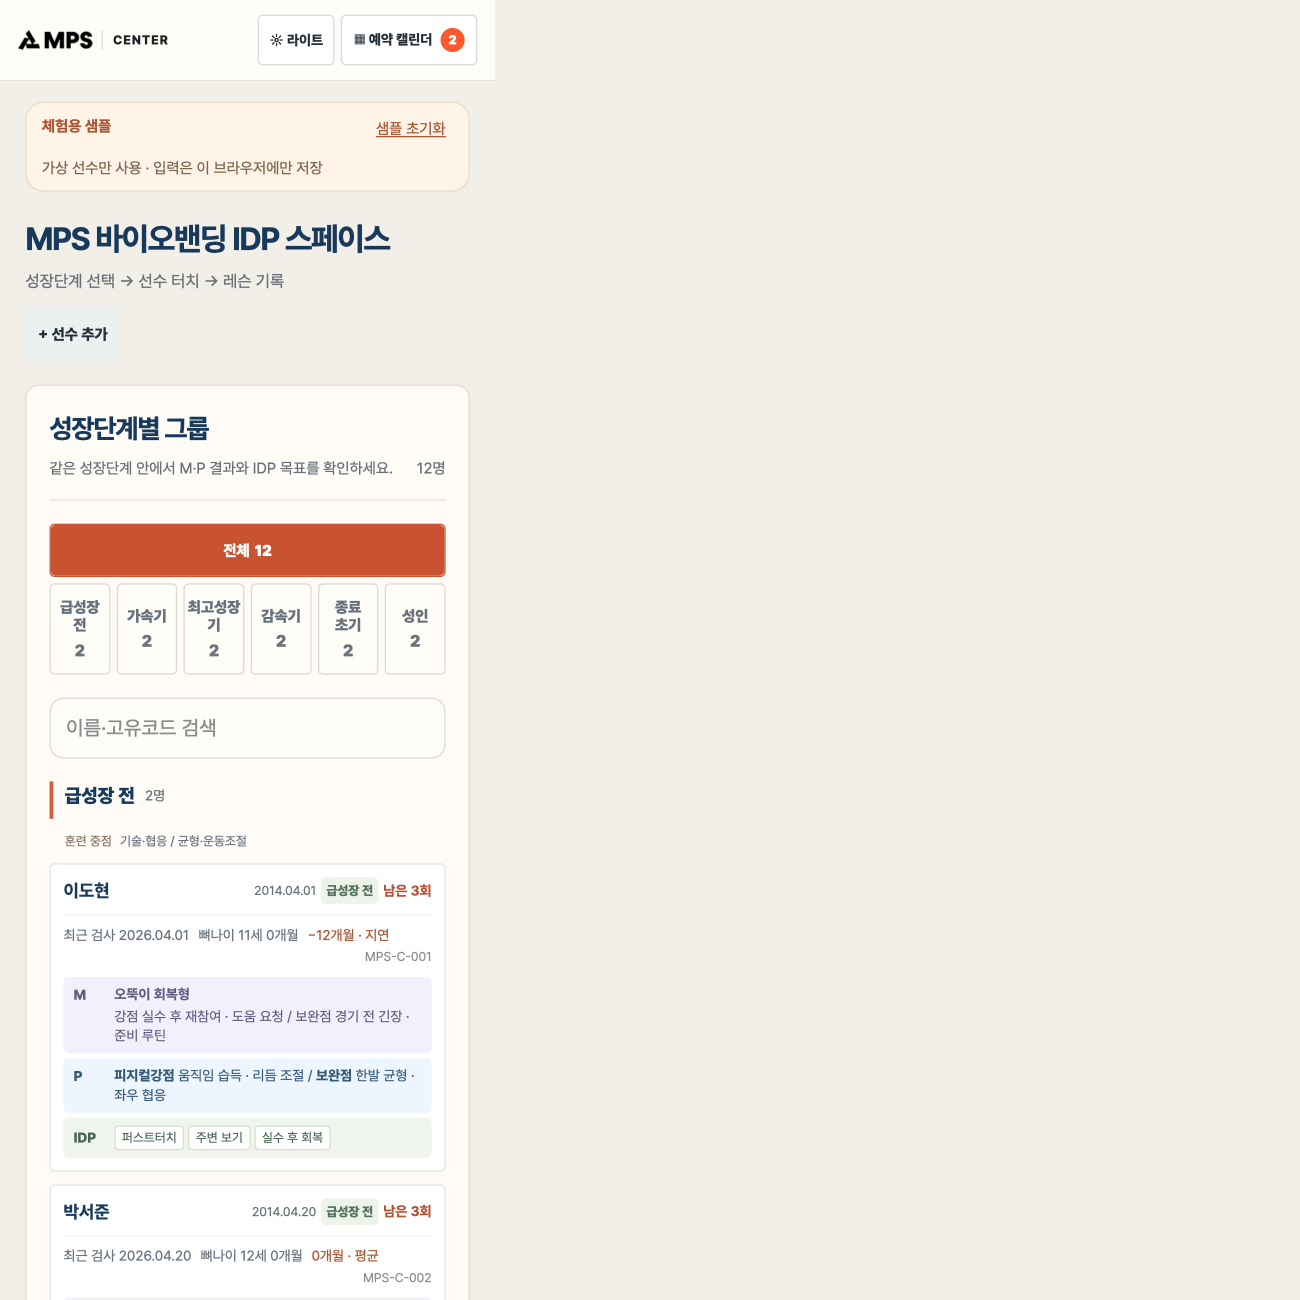
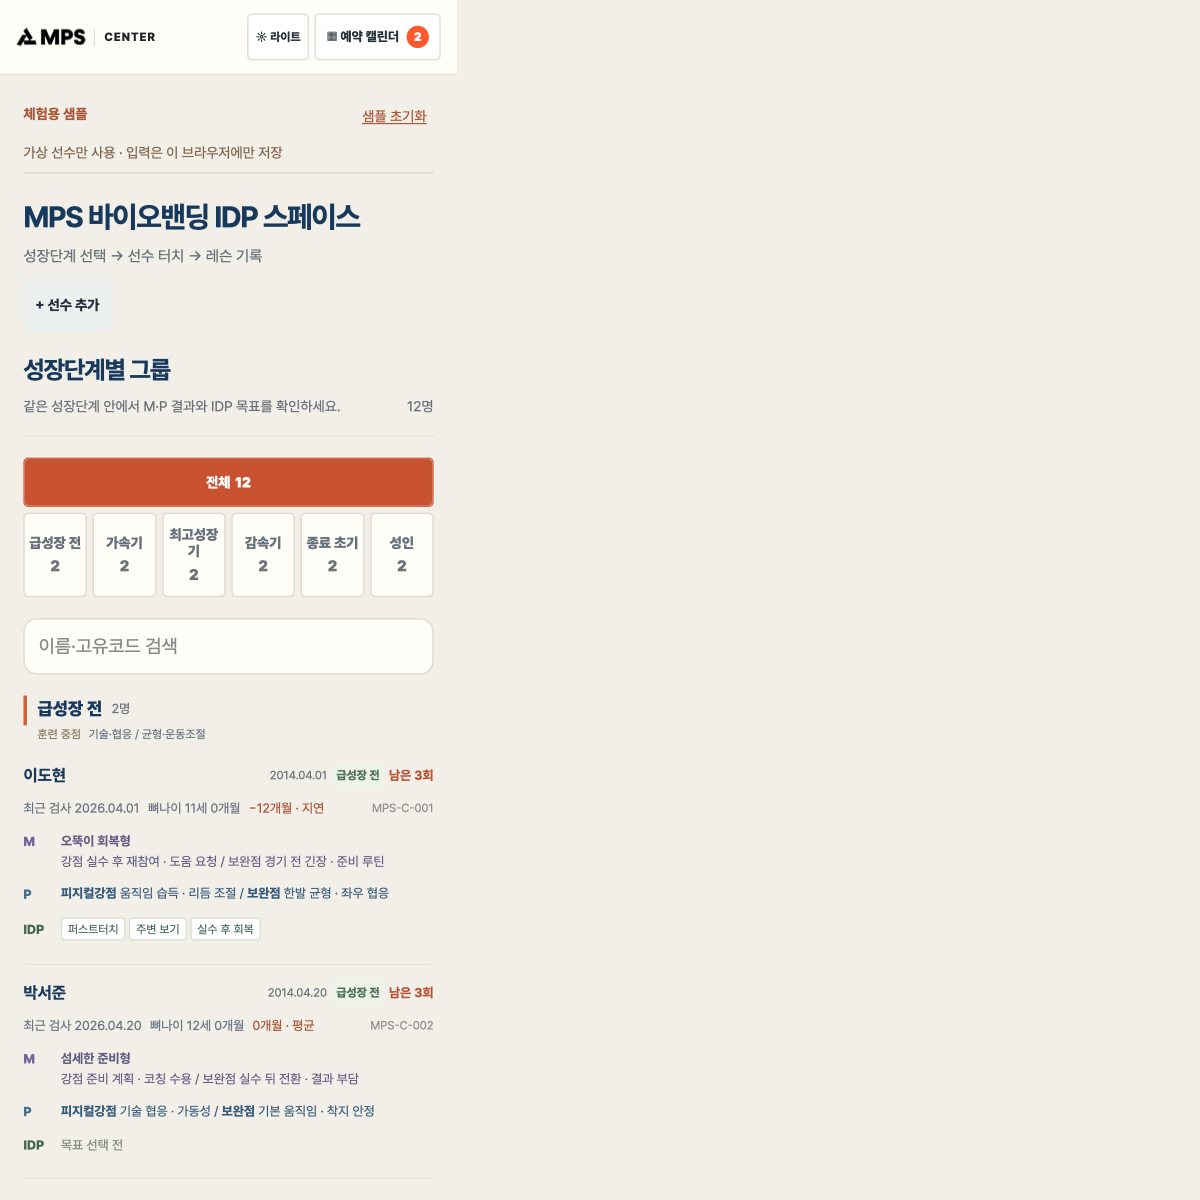
Simplify roster and preserve player booking flow with solar theme

diff --git a/app.js b/app.js
@@ -127,7 +127,7 @@ function renderDetail(){const p=players.find(x=>x.id===selected);const detail=$(
   <div class="growth-panel"><div class="growth-title"><span>S · 성장단계</span><strong>${esc(getStage(p))}</strong></div>${report?`<div class="growth-facts"><div><small>검사일</small><b>${esc(displayDate(report.examDate))}</b></div><div><small>생활연령</small><b>${esc(yearsMonths(monthsAt(p.dob,report.examDate)))}</b></div><div><small>뼈나이</small><b>${esc(yearsMonths(report.boneAgeMonths))}</b></div><div><small>차이</small><b>${esc(diffLabel)} · ${esc(report.maturity)}</b></div></div><details class="growth-history"><summary>이전 검사와 비교</summary>${previous?`<div class="stage-compare"><div><small>이전 검사 · ${esc(displayDate(previous.examDate))}</small><b>${esc(previous.stage)}</b></div><span aria-hidden="true">→</span><div><small>최근 검사 · ${esc(displayDate(report.examDate))}</small><b>${esc(report.stage)}</b></div></div><p class="stage-change">${previous.stage===report.stage?'성장단계 유지':'성장단계 변화 · 오늘의 관찰 포인트를 다시 확인하세요.'}</p>`:'<p class="hint">이전 검사 결과가 없습니다.</p>'}</details><div class="next-growth ${nextGrowth<=localDate()?'due':''}"><span>6개월 성장점검</span><b>${esc(displayDate(nextGrowth))}</b></div>`:'<p class="empty">MPS 검사 결과가 연계되면 성장단계와 뼈나이가 표시됩니다.</p>'}</div>
   <div class="insight-panels compact-insights"><section class="insight-strip mental"><div class="insight-strip-head"><span>M · 멘탈 유형</span><strong>${esc(mental?.type||'결과 대기')}</strong></div>${mental?`<div class="insight-inline"><p><small>강점</small>${mental.strengths.map(esc).join(' · ')}</p><p><small>보완</small>${mental.needs.map(esc).join(' · ')}</p></div>`:''}</section><section class="insight-strip physical"><div class="insight-strip-head"><span>P · 피지컬 보강</span><strong>${esc(physical?.focus?.join(' · ')||'결과 대기')}</strong></div>${physical?`<p class="insight-recs"><small>피지컬강점</small>${physical.strengths.map(esc).join(' · ')||'결과 대기'}</p><p class="insight-recs"><small>추천</small>${physical.recommendations.map(esc).join(' · ')}</p>`:''}</section></div>
   </section>
-  <details class="optional focus-optional"><summary>오늘의 지도 포인트 · ${esc(getStage(p))}<span>${esc(p.todayFocus||'선택하기')}</span></summary><div class="focus-panel"><span class="eyebrow">오늘의 지도 포인트 · ${esc(getStage(p))}</span><p>${esc(guide.line)}</p><div class="focus-choices">${guide.points.map(x=>`<button type="button" data-focus="${esc(x)}" class="focus-choice ${p.todayFocus===x?'active':''}" aria-pressed="${p.todayFocus===x}">${esc(x)}</button>`).join('')}</div><small>터치해 선택하면 이번 레슨의 IDP 관찰 포인트로 저장됩니다.</small></div></details>
+  <details class="optional focus-optional"><summary>오늘의 지도 포인트 · ${esc(getStage(p))}<span class="focus-select-action">${p.todayFocus?'변경하기':'선택하기'} ›</span></summary><div class="focus-panel"><span class="eyebrow">오늘의 지도 포인트 · ${esc(getStage(p))}</span><p>${esc(guide.line)}</p><div class="focus-choices">${guide.points.map(x=>`<button type="button" data-focus="${esc(x)}" class="focus-choice ${p.todayFocus===x?'active':''}" aria-pressed="${p.todayFocus===x}">${esc(x)}</button>`).join('')}</div><small>터치해 선택하면 이번 레슨의 IDP 관찰 포인트로 저장됩니다.</small></div></details>
   <p class="hint">M·P·S 내용은 가상 샘플입니다. 성장단계와 성숙도 표기는 MPS 결과 예시이며, 개월 차이만 검사일 기준으로 계산합니다. 추천은 실제 평가와 코치 판단으로 조정합니다.</p>
   <h3 class="section-label additional-label">추가 관리</h3>
   <details class="optional"><summary>짧은 코치 목표 · 선택</summary><label for="goal">기존 코치 목표</label><input id="goal" maxlength="160" value="${esc(p.goal||'')}" placeholder="필요할 때만 짧게 입력"><p class="hint">터치로 고르는 목표는 IDP 스페이스에서 관리합니다.</p></details>
@@ -138,6 +138,7 @@ function renderDetail(){const p=players.find(x=>x.id===selected);const detail=$(
   window.mpsIdpRender?.(p);
 }
 const playerDetailDialog=$('#player-detail-dialog');
+window.mpsReturnToPlayer=playerId=>{if(!players.some(p=>p.id===playerId))return;selected=playerId;renderDetail();playerDetailDialog.showModal()};
 function render(){const list=visiblePlayers();if(!playerDetailDialog.open&&!list.some(p=>p.id===selected))selected=list[0]?.id??null;$('#total-players').textContent=`${players.length}명`;$('#total-remaining').textContent=`${players.reduce((n,p)=>n+Math.max(0,p.paid-p.used),0)}회`;$('#due-count').textContent=`${players.filter(p=>p.report&&sixMonthsAfter(p.report.examDate)<=localDate()).length}명`;renderFilters();renderStageGuide();renderRoster(list);renderDetail()}
 $('#stage-filters').addEventListener('click',e=>{const button=e.target.closest('[data-stage]');if(button){stageFilter=button.dataset.stage;render()}});
 $('#player-list').addEventListener('click',e=>{const button=e.target.closest('[data-id]');if(button){selected=button.dataset.id;activePlayerTab='lesson';renderDetail();playerDetailDialog.showModal()}});
@@ -159,12 +160,36 @@ $('#detail').addEventListener('click',e=>{const p=players.find(x=>x.id===selecte
 const dialog=$('#player-dialog');$('#add-player').addEventListener('click',()=>dialog.showModal());$('#close-dialog').addEventListener('click',()=>dialog.close());
 $('#player-form').addEventListener('submit',e=>{e.preventDefault();const form=new FormData(e.target);const name=String(form.get('name')||'').trim(),dob=String(form.get('dob')||'');if(!name||!dob||dob>localDate()){alert('이름과 생년월일을 확인해 주세요.');return}const id=`demo-${Date.now()}-${Math.random().toString(36).slice(2,6)}`;const p={id,code:`MPS-C-${id.slice(-8).toUpperCase()}`,name,dob,group:String(form.get('group')||'').trim(),coach:String(form.get('coach')||'').trim(),paid:0,used:0,goal:'',report:null,notes:[]};players.unshift(p);stageFilter='검사 전';query='';$('#search').value='';selected=p.id;save();render();e.target.reset();dialog.close();playerDetailDialog.showModal()});
 $('#reset').addEventListener('click',()=>{if(confirm('샘플 데이터를 처음 상태로 되돌릴까요? 입력한 메모, 회차, 예약도 지워집니다.')){if(playerDetailDialog.open)playerDetailDialog.close();players=copy(initialPlayers);selected=players[0].id;stageFilter='전체';query='';$('#search').value='';save();render();window.dispatchEvent(new Event('mps-demo-reset'))}});
-const pageTheme=document.documentElement?.dataset.initialTheme||'dark';
-const THEME_KEY=`mps-centers2-theme-${pageTheme}`;
+// Solar schedule for the sample center in Seoul (KST, 37.5665 N / 126.978 E).
+function solarSchedule(date=localDate()){
+  const day=Math.floor((Date.parse(`${date}T12:00:00Z`)-Date.parse(`${date.slice(0,4)}-01-01T12:00:00Z`))/86400000)+1;
+  const year=Number(date.slice(0,4));const daysInYear=year%4===0&&(year%100!==0||year%400===0)?366:365;
+  const gamma=2*Math.PI/daysInYear*(day-1);
+  const equation=229.18*(.000075+.001868*Math.cos(gamma)-.032077*Math.sin(gamma)-.014615*Math.cos(2*gamma)-.040849*Math.sin(2*gamma));
+  const declination=.006918-.399912*Math.cos(gamma)+.070257*Math.sin(gamma)-.006758*Math.cos(2*gamma)+.000907*Math.sin(2*gamma)-.002697*Math.cos(3*gamma)+.00148*Math.sin(3*gamma);
+  const latitude=37.5665*Math.PI/180;
+  const hourAngle=Math.acos(Math.cos(90.833*Math.PI/180)/(Math.cos(latitude)*Math.cos(declination))-Math.tan(latitude)*Math.tan(declination))*180/Math.PI;
+  const noon=720-4*126.978-equation+540;
+  return {sunrise:noon-4*hourAngle,sunset:noon+4*hourAngle};
+}
+const THEME_KEY='mps-centers2-theme-mode-v1';
 const requestedTheme=typeof location==='undefined'?'':new URLSearchParams(location.search).get('theme');
-const savedTheme=localStorage.getItem(THEME_KEY);
-let theme=['light','dark'].includes(requestedTheme)?requestedTheme:(['light','dark'].includes(savedTheme)?savedTheme:pageTheme);
-function applyTheme(){if(document.documentElement)document.documentElement.dataset.theme=theme;const button=$('#theme-toggle');button.textContent=theme==='dark'?'☼ 라이트':'☾ 다크';button.setAttribute?.('aria-label',`${theme==='dark'?'라이트':'다크'} 모드로 변경`);button.setAttribute?.('aria-pressed',String(theme==='light'))}
-$('#theme-toggle').addEventListener('click',()=>{theme=theme==='dark'?'light':'dark';try{localStorage.setItem(THEME_KEY,theme)}catch{}applyTheme()});
+let themeMode=['light','dark','auto'].includes(requestedTheme)?requestedTheme:(localStorage.getItem(THEME_KEY)||'auto');
+if(!['light','dark','auto'].includes(themeMode))themeMode='auto';
+let theme='light';
+function applyTheme(){
+  const parts=new Intl.DateTimeFormat('en-GB',{timeZone:'Asia/Seoul',hour:'2-digit',minute:'2-digit',hourCycle:'h23'}).formatToParts(new Date());
+  const minutes=Number(parts.find(p=>p.type==='hour').value)*60+Number(parts.find(p=>p.type==='minute').value);
+  const {sunrise,sunset}=solarSchedule();
+  theme=themeMode==='auto'?(minutes>=sunrise&&minutes<sunset?'light':'dark'):themeMode;
+  if(document.documentElement)document.documentElement.dataset.theme=theme;
+  const button=$('#theme-toggle');
+  button.textContent=themeMode==='auto'?`◐ 자동 · ${theme==='light'?'라이트':'다크'}`:themeMode==='light'?'☼ 라이트':'☾ 다크';
+  button.setAttribute?.('aria-label',`화면 모드: ${themeMode==='auto'?'일출·일몰 자동':themeMode==='light'?'라이트':'다크'}. 누르면 다음 모드로 변경`);
+  button.setAttribute?.('aria-pressed',String(themeMode!=='auto'));
+  button.title='자동 → 라이트 → 다크 · 자동은 서울 일출·일몰 기준';
+}
+$('#theme-toggle').addEventListener('click',()=>{themeMode={auto:'light',light:'dark',dark:'auto'}[themeMode];try{localStorage.setItem(THEME_KEY,themeMode)}catch{}applyTheme()});
+if(typeof window.setInterval==='function'){window.setInterval(applyTheme,60000);document.addEventListener('visibilitychange',()=>{if(!document.hidden)applyTheme()})}
 applyTheme();
 render();

diff --git a/calendar.js b/calendar.js
@@ -12,6 +12,7 @@ function readBookings(){try{const data=JSON.parse(localStorage.getItem(BOOKING_K
 function saveBookings(){try{localStorage.setItem(BOOKING_KEY,JSON.stringify(bookings))}catch{alert('예약을 브라우저에 저장하지 못했습니다.')}}
 function readPlayers(){try{const data=JSON.parse(localStorage.getItem(PLAYER_KEY));return Array.isArray(data)?data:initialPlayers}catch{return initialPlayers}}
 const escapeCalendar = value => String(value??'').replace(/[&<>"']/g,c=>({'&':'&amp;','<':'&lt;','>':'&gt;','"':'&quot;',"'":'&#39;'}[c]));
+let calendarPlayerId='';let returnPlayerId=null;
 let bookings=readBookings();let selectedDate=todaySeoul();let viewMonth=selectedDate.slice(0,7);
 function playerName(id){return readPlayers().find(p=>p.id===id)?.name||'삭제된 선수'}
 function googleCalendarUrl(booking){
@@ -30,7 +31,7 @@ function renderPlayerOptions(selected=''){
   const players=readPlayers();
   document.querySelector('#booking-player').innerHTML='<option value="">선수 선택</option>'+players.map(p=>`<option value="${escapeCalendar(p.id)}" ${p.id===selected?'selected':''}>${escapeCalendar(p.name)} · ${escapeCalendar(p.group||'반 미정')}</option>`).join('');
 }
-function clearBookingForm(){bookingForm.reset();bookingForm.elements.bookingId.value='';bookingForm.elements.date.value=selectedDate;bookingForm.elements.time.value='16:00';document.querySelector('#booking-submit').textContent='예약 추가';document.querySelector('#booking-cancel').hidden=true;renderPlayerOptions()}
+function clearBookingForm(){bookingForm.reset();bookingForm.elements.bookingId.value='';bookingForm.elements.date.value=selectedDate;bookingForm.elements.time.value='16:00';document.querySelector('#booking-submit').textContent='예약 추가';document.querySelector('#booking-cancel').hidden=true;renderPlayerOptions(calendarPlayerId);bookingForm.elements.playerId.value=calendarPlayerId}
 function renderCalendar(){
   const [year,month]=viewMonth.split('-').map(Number);
   document.querySelector('#month-label').textContent=`${year}년 ${month}월`;
@@ -49,9 +50,12 @@ function renderCalendar(){
   document.querySelector('#booking-list').innerHTML=dayBookings.length?dayBookings.map(b=>`<div class="booking-row"><div><b>${escapeCalendar(b.time)} · ${escapeCalendar(playerName(b.playerId))}</b><span> ${escapeCalendar(b.type)}</span></div><div><button type="button" data-edit="${escapeCalendar(b.id)}" aria-label="예약 수정">수정</button><button type="button" data-delete="${escapeCalendar(b.id)}" aria-label="예약 삭제">삭제</button></div>${b.memo?`<small>${escapeCalendar(b.memo)}</small>`:''}<a class="google-event" href="${escapeCalendar(googleCalendarUrl(b))}" target="_blank" rel="noopener noreferrer">Google에 추가 ↗</a></div>`).join(''):'<p class="empty">이날 예약이 없습니다.</p>';
   document.querySelector('#upcoming-count').textContent=bookings.filter(b=>b.date>=todaySeoul()).length;
 }
-document.querySelector('#calendar-open').addEventListener('click',()=>{selectedDate=todaySeoul();viewMonth=selectedDate.slice(0,7);clearBookingForm();renderCalendar();calendarDialog.showModal()});
-window.mpsCalendarOpenForPlayer = playerId => {selectedDate=todaySeoul();viewMonth=selectedDate.slice(0,7);clearBookingForm();bookingForm.elements.playerId.value=playerId;renderCalendar();calendarDialog.showModal()};
+document.querySelector('#calendar-open').addEventListener('click',()=>{calendarPlayerId='';returnPlayerId=null;selectedDate=todaySeoul();viewMonth=selectedDate.slice(0,7);clearBookingForm();renderCalendar();calendarDialog.showModal()});
+window.mpsCalendarOpenForPlayer = playerId => {calendarPlayerId=playerId;returnPlayerId=playerId;selectedDate=todaySeoul();viewMonth=selectedDate.slice(0,7);clearBookingForm();bookingForm.elements.playerId.value=playerId;renderCalendar();calendarDialog.showModal()};
 document.querySelector('#calendar-close').addEventListener('click',()=>calendarDialog.close());
+calendarDialog.addEventListener('click',event=>{if(event.target===calendarDialog)calendarDialog.close()});
+calendarDialog.addEventListener('close',()=>{const playerId=returnPlayerId;returnPlayerId=null;if(playerId)window.mpsReturnToPlayer?.(playerId)});
+document.querySelector('#booking-player').addEventListener('change',event=>{calendarPlayerId=event.target.value});
 function moveMonth(delta){const [y,m]=viewMonth.split('-').map(Number);const d=new Date(Date.UTC(y,m-1+delta,1));viewMonth=d.toISOString().slice(0,7);selectedDate=`${viewMonth}-01`;clearBookingForm();renderCalendar()}
 document.querySelector('#month-prev').addEventListener('click',()=>moveMonth(-1));
 document.querySelector('#month-next').addEventListener('click',()=>moveMonth(1));
@@ -67,7 +71,7 @@ bookingForm.addEventListener('submit',e=>{
   if(!readPlayers().some(p=>p.id===playerId)||!/^\d{4}-\d{2}-\d{2}$/.test(date)||!/^\d{2}:\d{2}$/.test(time)){alert('선수, 날짜, 시간을 확인해 주세요.');return}
   const booking={id:String(data.get('bookingId')||`booking-${Date.now()}`),playerId,date,time,type:String(data.get('type')||'레슨'),memo:String(data.get('memo')||'').trim().slice(0,100)};
   const index=bookings.findIndex(x=>x.id===booking.id);if(index>=0)bookings[index]=booking;else bookings.push(booking);
-  saveBookings();selectedDate=date;viewMonth=date.slice(0,7);clearBookingForm();renderCalendar();
+  saveBookings();calendarPlayerId=playerId;selectedDate=date;viewMonth=date.slice(0,7);clearBookingForm();renderCalendar();
 });
 window.addEventListener('mps-demo-reset',()=>{bookings=sampleBookings();saveBookings();renderCalendar()});
 window.addEventListener('mps-player-deleted',e=>{bookings=bookings.filter(b=>b.playerId!==e.detail.id);saveBookings();renderCalendar()});

diff --git a/style.css b/style.css
@@ -587,3 +587,43 @@ button,.button{border-radius:4px!important}
 :root[data-theme="light"] .idp-mps{border-color:#e7dfd4}
 :root[data-theme="light"] .access-cards div{background:#eff4ec}
 @media(max-width:700px){.compact-result{font-size:11px}.result-key{width:24px;flex-basis:24px}.compact-player{padding:10px}.idp-card-tags{gap:3px}.idp-card-tag{padding:2px 5px}.stage-physical-focus{font-size:10px}.stage-physical-focus span{margin-left:4px}}
+/* Open roster: sections and separators replace nested boxes. */
+.shell .roster.panel,.shell .access.panel{background:none;border:0;border-radius:0;box-shadow:none;padding:0}
+.demo{background:none;border:0;border-bottom:1px solid #444;border-radius:0;padding:8px 0}
+.stage-players{border:0;padding-left:0;gap:0 24px}
+.player-card-button,.player-card-button.selected{background:none;border:0;border-bottom:1px solid #4a4a4a;border-radius:0;box-shadow:none;padding:13px 0 16px}
+.player-card-button:hover{background:#ffffff04;border-color:#666}
+.compact-top{border:0;padding-bottom:2px}
+.compact-result.mental,.compact-result.physical,.compact-result.idp{background:none;border:0;border-radius:0;padding:4px 0}
+.compact-result.mental .result-key{color:#b5a4df}.compact-result.physical .result-key{color:#95c9d8}
+.stage-group-head{margin-bottom:0;padding-bottom:3px}
+.stage-physical-focus{margin-bottom:4px}
+.stats{gap:0;border-top:1px solid #484848;border-bottom:1px solid #484848;margin-top:26px}
+.stats article{background:none;border:0;border-radius:0;padding:16px 10px;box-shadow:none}
+.stats article+article{border-left:1px solid #484848}
+.access{margin-top:30px}
+.access-cards div{background:none;border:0;border-left:2px solid #555;border-radius:0}
+.player-tabs{gap:8px;border-bottom:0;padding:12px 0 3px;margin-top:3px}
+.player-tabs button{font-size:17px;font-weight:850;min-height:52px;background:#333;border:1px solid #555;color:#bbb}
+.player-tabs button.active{background:#42332b;border-color:#d06440;color:#fff;-webkit-text-fill-color:#fff}
+.player-tabs button.active::after{left:0;right:0;bottom:-1px;height:3px}
+.player-tabs button:hover{border-color:#d06440}
+.focus-optional summary{font-size:14px;line-height:1.4}
+.focus-optional summary .focus-select-action{display:inline-flex;align-items:center;justify-content:center;flex:none;min-height:44px;padding:8px 11px;border-radius:4px;background:#c93f1d;color:#fff;font-size:13px;font-weight:850;margin-left:auto}
+.focus-optional summary::after{display:none}
+:root[data-theme="light"] .shell .roster.panel,:root[data-theme="light"] .shell .access.panel{background:none;border:0;box-shadow:none}
+:root[data-theme="light"] .demo{background:none;border:0;border-bottom:1px solid #ddd5ca}
+:root[data-theme="light"] .stage-players{border:0;padding-left:0}
+:root[data-theme="light"] .player-card-button,:root[data-theme="light"] .player-card-button.selected{background:none;border:0;border-bottom:1px solid #dddfe1;border-radius:0;box-shadow:none}
+:root[data-theme="light"] .player-card-button:hover{background:#ffffff50;border-color:#bbc5cb}
+:root[data-theme="light"] .compact-result.mental,:root[data-theme="light"] .compact-result.physical,:root[data-theme="light"] .compact-result.idp{background:none;border:0}
+:root[data-theme="light"] .compact-result.mental .result-key{color:#716395}
+:root[data-theme="light"] .compact-result.physical .result-key{color:#426c8e}
+:root[data-theme="light"] .stats{border-color:#ddd5ca}
+:root[data-theme="light"] .stats article{background:none;border:0;box-shadow:none}
+:root[data-theme="light"] .stats article+article{border-left:1px solid #ddd5ca}
+:root[data-theme="light"] .access-cards div{background:none;border-left-color:#ccd6c6}
+:root[data-theme="light"] .player-tabs button{background:#f0ece5;border:1px solid #d9d2c8;color:#697582}
+:root[data-theme="light"] .player-tabs button.active{background:#fff2e9;border-color:#c95330;color:#17395c;-webkit-text-fill-color:#17395c}
+:root[data-theme="light"] .focus-optional summary .focus-select-action{background:#c95330;color:#fff}
+@media(max-width:700px){.stage-group-head{padding-left:9px}.stage-physical-focus{padding-left:12px}.player-tabs button{font-size:16px}.focus-optional summary{gap:8px}.theme-toggle{font-size:10px;padding:7px 6px}.shell .roster.panel{padding:0}.stats strong{font-size:21px}}
